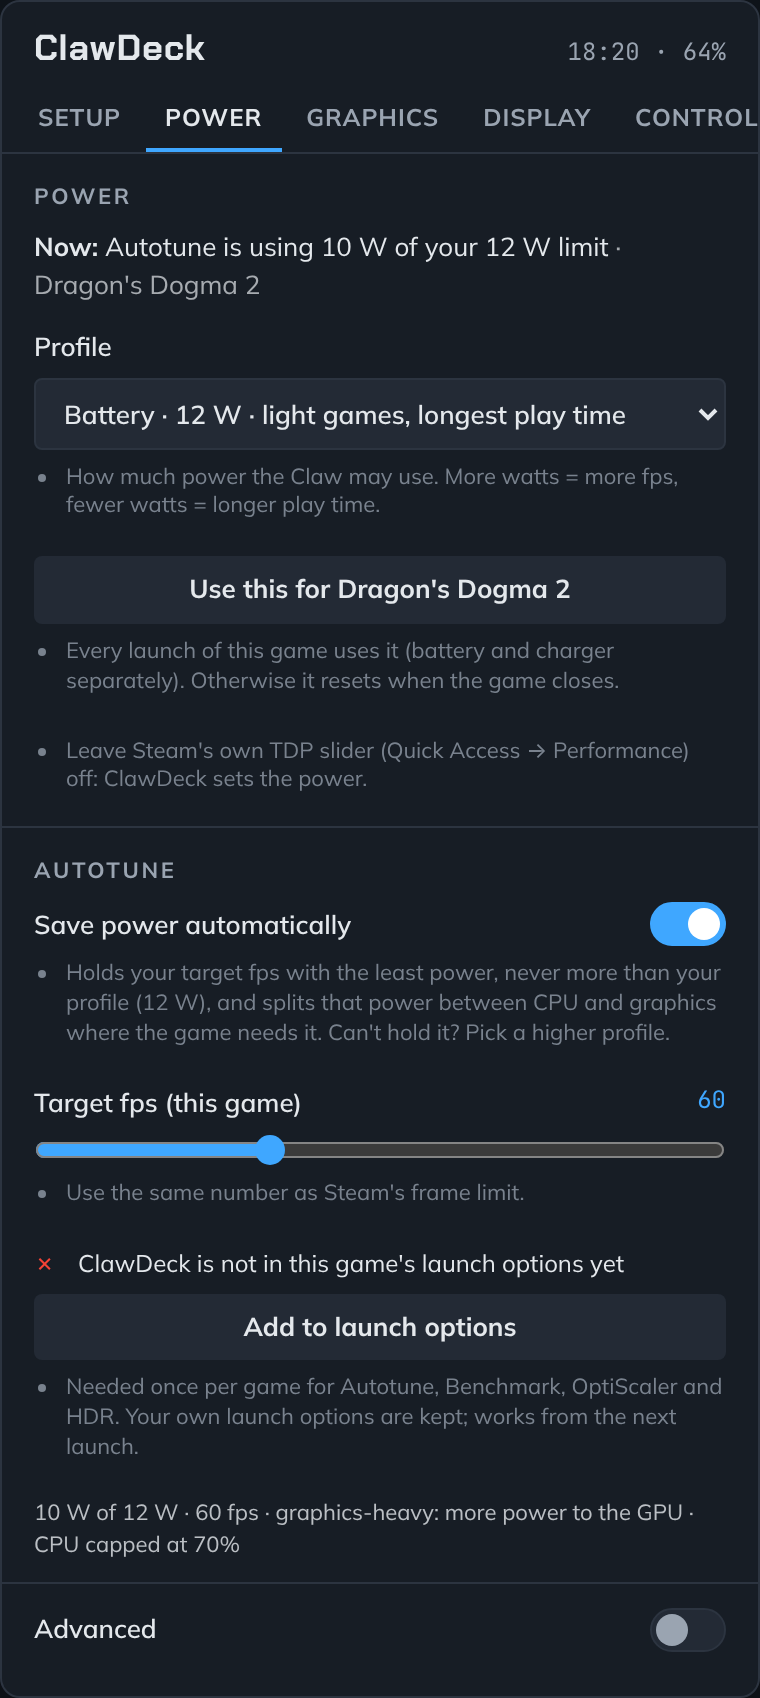
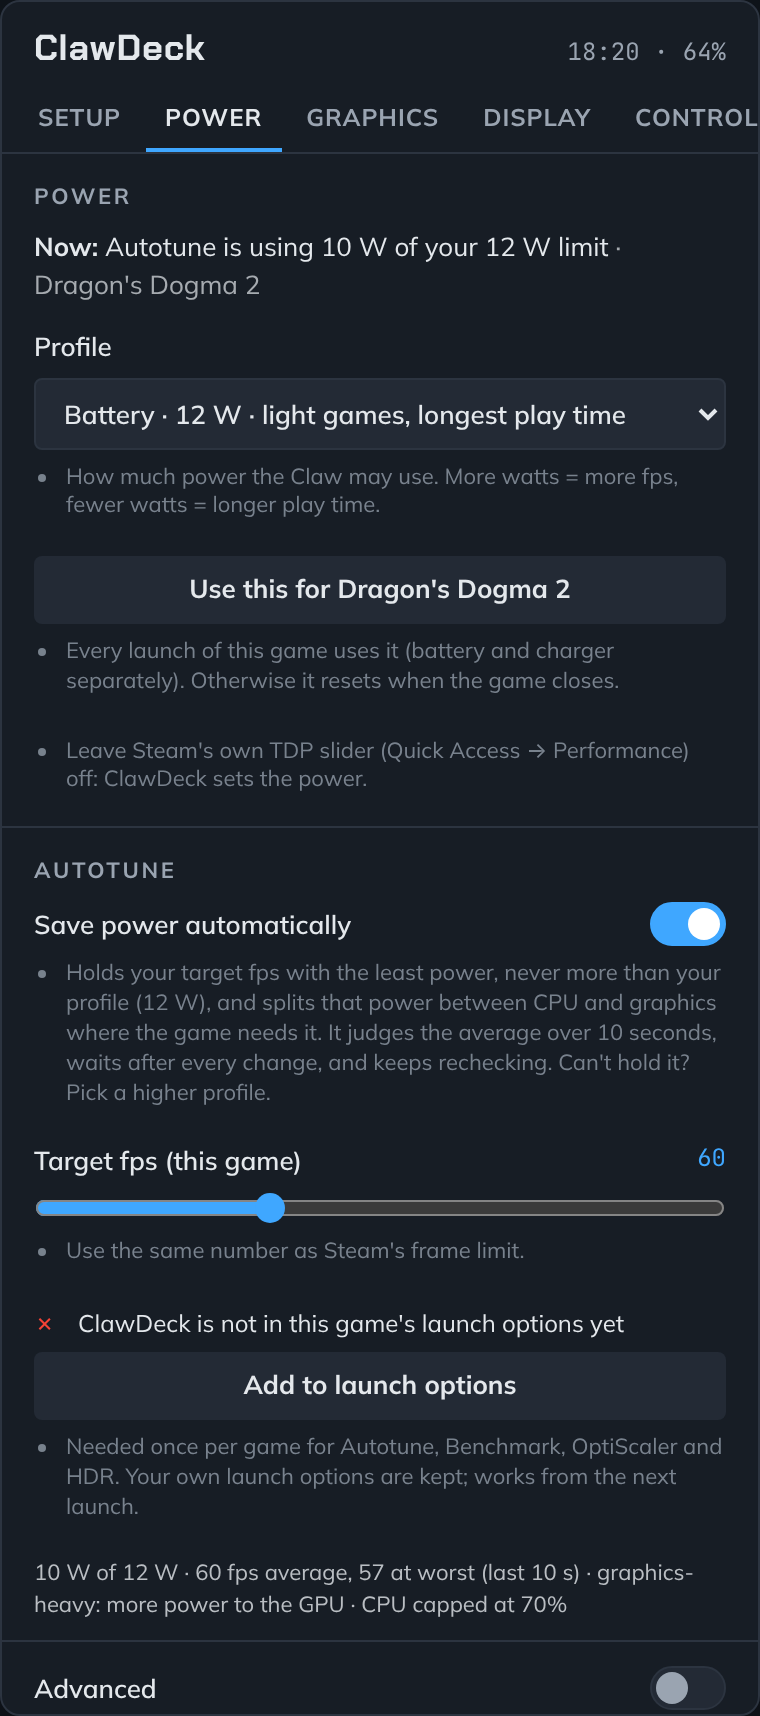
Autotune: decide on the average over time, wait after changes, keep rechecking
- Every decision looks at a 10 s window: the average fps and the worst second.
  On target = average >= 97 % and no second under 85 % of the target; missing =
  average under 95 % or a second under 75 % (stutter); in between, hold.
- The window restarts after every change, so each setting is judged only on its
  own numbers.
- A learned game is still watched: a miss raises power at once, and after 5 min
  steady on target it probes one step lower again.
- The sampler averages every MangoHud row written since the last read instead of
  keeping only the newest one.
- Power tab: "60 fps average, 57 at worst (last 10 s)"; README explains it.
- Tests for averaging vs one dip, stutter, the recheck, and the log reader.

Claude-Session: https://claude.ai/code/session_01XS45jD5WJVTkNPaWHwVS7K

diff --git a/src/tabs/Power.tsx b/src/tabs/Power.tsx
@@ -116,7 +116,7 @@ export const PowerTab: FC = () => {
       <PanelSection title="Autotune">
         <PanelSectionRow>
           <ToggleField label="Save power automatically" checked={autotune} onChange={async (v) => { setAutotune(v); await setSetting("autotune", v); refresh(); }} />
-          <Hint does={`Holds your target fps with the least power, never more than your profile (${limitW} W), and splits that power between CPU and graphics where the game needs it. Can't hold it? Pick a higher profile.`} />
+          <Hint does={`Holds your target fps with the least power, never more than your profile (${limitW} W), and splits that power between CPU and graphics where the game needs it. It judges the average over 10 seconds, waits after every change, and keeps rechecking. Can't hold it? Pick a higher profile.`} />
         </PanelSectionRow>
         {autotune && (
           <PanelSectionRow>
@@ -130,7 +130,7 @@ export const PowerTab: FC = () => {
           <PanelSectionRow>
             <div style={{ fontSize: 11, opacity: 0.8 }}>
               {at.paused ? "Paused: you changed CPU or GPU settings by hand" : `${at.learned?.tdp} W of ${limitW} W`}
-              {at.last?.fps != null && <> · {Math.round(at.last.fps)} fps</>}
+              {at.avg_fps != null ? <> · {Math.round(at.avg_fps)} fps average, {Math.round(at.low_fps ?? at.avg_fps)} at worst (last {at.window_s} s)</> : <> · measuring…</>}
               {at.learned?.bound && at.learned.bound !== "balanced" && <> · {at.learned.bound === "gpu" ? "graphics-heavy: more power to the GPU" : "CPU-heavy: more power to the CPU"}</>}
               {at.learned?.cpu_max_pct != null && at.learned.cpu_max_pct < 100 && <> · CPU capped at {at.learned.cpu_max_pct}%</>}
             </div>

diff --git a/src/api.ts b/src/api.ts
@@ -17,7 +17,8 @@ export type BatteryStatus = {
 export type Stack = { hhd: boolean; inputplumber: boolean; powerstation: boolean; controller: string | null; tdp_owner: string | null; conflict: boolean };
 export type Hardware = { product: string; known: boolean; kernel: string; cpu_model: string; gpu_driver: string | null; model: { name: string; soc: string; gpu: string; xmx: boolean }; stack: Stack; other_plugins?: { injector: string[]; power: string[] } };
 export type GameProfile = { base?: string; tdp?: number; cpu_max_pct?: number; gpu_min_mhz?: number; gpu_max_mhz?: number; target_fps?: number; autotune?: boolean; learned?: any };
-export type AutotuneStatus = { running: boolean; enabled: boolean; appid?: string; target_fps?: number; learned?: any; paused?: boolean; last?: any };
+export type AutotuneStatus = { running: boolean; enabled: boolean; appid?: string; target_fps?: number; learned?: any; paused?: boolean; last?: any;
+  avg_fps?: number | null; low_fps?: number | null; window_s?: number };
 
 export const getHardware = callable<[], Hardware>("get_hardware");
 export const getHealth = callable<[], Health[]>("get_health");

diff --git a/preview/backend.ts b/preview/backend.ts
@@ -143,7 +143,7 @@ export const backend = {
   get_autotune: () => (scenario.game && state.autotune
     ? { running: true, enabled: true, appid: "2054970", target_fps: state.targetFps, paused: false,
         learned: { tdp: 10, cpu_max_pct: 70, gpu_min_mhz: null, bound: "gpu", confidence: 2, samples: 412 },
-        last: { fps: 60.2, pkg_w: 10.4 } }
+        last: { fps: 60.2, pkg_w: 10.4 }, avg_fps: 60.1, low_fps: 57.0, window_s: 10 }
     : { running: false, enabled: state.autotune }),
   export_profiles: () => "{}",
   import_profiles: () => 1,

diff --git a/py_modules/clawdeck/autotune.py b/py_modules/clawdeck/autotune.py
@@ -6,16 +6,21 @@ Loop (1 Hz while a game runs, idle otherwise; one asyncio task, no threads, no b
      CPU utilisation (/proc/stat delta).
   2. classify: GPU-bound when the GPU is busy >= 90 % (PowerStation) or sits at its clock ceiling, while the CPU is < 60 %;
      CPU-bound when CPU > 85 % on the busiest cores and the GPU is < 70 %; else balanced.
-  3. control, one lever per step, with hysteresis. CPU and GPU share one power budget (the TDP), so balancing them is
-     half the job: power the side that isn't holding the game back doesn't need goes to the side that is.
-     - on target (frame time <= 1000/target_fps * 1.03) for `settle` samples: alternately trim the side that isn't
+  3. judge over time, never one second: every decision looks at the last `settle` seconds (10 by default): the
+     average fps and the worst second in that window. After every change the window starts empty, so the next
+     decision is based only on what the new setting did. "On target" = average >= 97 % of the target and no second
+     below 85 %; "missing" = average below 95 % or a second below 75 % (stutter); in between, hold.
+  4. control, one lever per decision. CPU and GPU share one power budget (the TDP), so balancing them is half the
+     job: power the side that isn't holding the game back doesn't need goes to the side that is.
+     - on target: alternately trim the side that isn't
        the bottleneck (GPU-bound: CPU ceiling -10 %, down to 60 %; CPU-bound: GPU floor -100 MHz, or off) and lower
        the TDP by 1 W, so the budget shrinks without starving the bound side;
-     - below target for 2 samples: first move budget to the bound side without more watts (GPU-bound: CPU ceiling
+     - missing: first move budget to the bound side without more watts (GPU-bound: CPU ceiling
        -10 % if the CPU is idle enough, else GPU floor +100 MHz; CPU-bound: CPU ceiling +10 %, else drop the GPU
        floor), then TDP +2 W; never above the ceiling (the profile or power limit the user picked).
-  4. after `stable` consecutive samples without a change, save the learned values with a confidence count and
-     stop adjusting (the game is "learned"; a later miss re-opens learning).
+  5. after `stable` decisions without a change, confidence goes up; at 3 the game is "learned" and autotune stops
+     lowering, but keeps checking: a miss raises power again at once, and every RECHECK_S of steady play on target
+     it tries one step lower again, in case the game (or a driver update) now needs less.
 
 Rules: dry-run prints every would-be write; a manual change by the user (TDP differs from what we set) pauses
 learning for the session; everything applied is reverted on game exit. The maths is a few comparisons per second:
@@ -38,6 +43,9 @@ log = logging.getLogger("clawdeck.autotune")
 CPU_MIN_PCT = 60        # autotune never trims the CPU below this: below it, frame pacing suffers in most games
 CPU_IDLE_PCT = 50       # "the CPU has power to spare": its utilisation is under this while the GPU is the bottleneck
 GPU_STEP_MHZ = 100
+RECHECK_S = 300         # a learned game is re-probed one step lower after this long on target without a change
+ON_AVG, ON_LOW = 0.97, 0.85     # on target: window average and worst second, as a share of the target
+MISS_AVG, MISS_LOW = 0.95, 0.75  # missing: average or worst second below these
 
 @dataclass
 class Sample:
@@ -81,18 +89,18 @@ class Sampler:
                 self._log_pos[f] = fh.tell()
         except OSError:
             return None, None
-        last = None
+        # every row written since the last read (MangoHud writes one per log_interval), averaged: nothing is skipped
+        fps_rows, ft_rows = [], []
         for row in csv.reader(rows.splitlines()):
             if len(row) >= 2 and row[0].replace(".", "", 1).isdigit():
-                last = row
-        if not last:
+                try:
+                    fps_rows.append(float(row[0]))
+                    ft_rows.append(float(row[1]))
+                except ValueError:
+                    continue
+        if not fps_rows:
             return None, None
-        try:
-            fps = float(last[0])
-            ft = float(last[1]) if len(last) > 1 else (1000.0 / fps if fps else None)
-            return ft, fps
-        except ValueError:
-            return None, None
+        return sum(ft_rows) / len(ft_rows), sum(fps_rows) / len(fps_rows)
 
     def package_power(self) -> float | None:
         if not self.p.rapl_energy:
@@ -173,13 +181,17 @@ class Session:
     floor_tdp: int
     ceiling_tdp: int
     learned: Learned
-    settle: int = 8          # good samples before lowering power one step
-    stable: int = 60         # unchanged samples before "learned"
+    settle: int = 10         # seconds of fps averaged before each decision (the window)
+    stable: int = 60         # decisions without a change before confidence goes up
     good_run: int = 0
     bad_run: int = 0
     unchanged: int = 0
     paused: bool = False
     trim_turn: bool = True   # on target: alternate between rebalancing CPU/GPU and lowering the TDP
+    window: list[float] = field(default_factory=list)   # per-second fps since the last change
+    last_change_t: float | None = None
+    avg_fps: float | None = None
+    low_fps: float | None = None
     history: list[Sample] = field(default_factory=list)
 
 
@@ -215,6 +227,7 @@ class Autotune:
         s.ceiling_tdp = max(s.floor_tdp, int(watts))
         s.learned.tdp = s.ceiling_tdp
         s.paused, s.good_run, s.bad_run, s.unchanged = False, 0, 0, 0
+        s.window.clear()
         log.info("autotune ceiling now %d W", s.ceiling_tdp)
 
     def pause(self, reason: str = "manual change") -> None:
@@ -264,12 +277,30 @@ class Autotune:
             return
         l = s.learned
         l.samples += 1
+        fps = smp.fps if smp.fps else 1000.0 / smp.frametime_ms if smp.frametime_ms else None
+        if not fps:
+            return
+        s.window.append(fps)
+        del s.window[:-s.settle]
+        if s.last_change_t is None:
+            s.last_change_t = smp.t
+        if len(s.window) < s.settle:
+            return                                   # not enough seconds since the last change to judge it
+        s.avg_fps = sum(s.window) / len(s.window)
+        s.low_fps = min(s.window)
         l.bound = classify(smp)
-        target_ms = 1000.0 / s.target_fps
+        t = s.target_fps
         changed = False
-        if smp.frametime_ms <= target_ms * 1.03:
-            s.good_run += 1; s.bad_run = 0
-            if s.good_run >= s.settle and l.confidence < 3:
+        if s.avg_fps < t * MISS_AVG or s.low_fps < t * MISS_LOW:
+            changed = self._feed_bound(l, smp)
+            if not changed and l.tdp < s.ceiling_tdp:
+                l.tdp = min(s.ceiling_tdp, l.tdp + 2)
+                self.power.set_tdp(l.tdp, self.plugged)
+                changed = True
+            l.confidence = max(0, l.confidence - 1)
+        elif s.avg_fps >= t * ON_AVG and s.low_fps >= t * ON_LOW:
+            recheck = l.confidence >= 3 and smp.t - s.last_change_t >= RECHECK_S
+            if l.confidence < 3 or recheck:
                 if s.trim_turn:
                     changed = self._trim_unbound(l, smp)
                 if not changed and l.tdp > s.floor_tdp:
@@ -277,19 +308,12 @@ class Autotune:
                     self.power.set_tdp(l.tdp, self.plugged)
                     changed = True
                 s.trim_turn = not s.trim_turn
-                s.good_run = 0
-        else:
-            s.bad_run += 1; s.good_run = 0
-            if s.bad_run >= 2:
-                changed = self._feed_bound(l, smp)
-                if not changed and l.tdp < s.ceiling_tdp:
-                    l.tdp = min(s.ceiling_tdp, l.tdp + 2)
-                    self.power.set_tdp(l.tdp, self.plugged)
-                    changed = True
-                s.bad_run = 0
-                l.confidence = max(0, l.confidence - 1)
+                if recheck:
+                    log.info("autotune recheck: trying one step lower after %d s on target", RECHECK_S)
         if changed:
             s.unchanged = 0
+            s.window.clear()                         # judge the new setting on its own numbers only
+            s.last_change_t = smp.t
         else:
             s.unchanged += 1
             if s.unchanged >= s.stable:
@@ -362,4 +386,6 @@ class Autotune:
         last = s.history[-1] if s.history else None
         return {"running": True, "enabled": self.enabled, "appid": s.appid, "target_fps": s.target_fps,
                 "learned": s.learned.__dict__, "paused": s.paused,
+                "avg_fps": None if s.avg_fps is None else round(s.avg_fps, 1),
+                "low_fps": None if s.low_fps is None else round(s.low_fps, 1), "window_s": s.settle,
                 "last": None if last is None else last.__dict__}

diff --git a/tests/test_backend.py b/tests/test_backend.py
@@ -133,36 +133,43 @@ def test_autotune_lowers_then_raises(fake_hw, monkeypatch):
     at.session = s
     good = autotune.Sample(t=0, frametime_ms=15.0, fps=66, gpu_mhz=1500, gpu_max_mhz=2400, cpu_pct=50, pkg_w=20)
     monkeypatch.setattr(at.sampler, "sample", lambda: good)
-    for _ in range(3):
-        at._step()
-    assert s.learned.tdp == 29 and applied[-1] == 29
+    at._step(); at._step()
+    assert s.learned.tdp == 30                     # two seconds are not enough to judge
+    at._step()
+    assert s.learned.tdp == 29 and applied[-1] == 29 and s.window == []   # the window restarts after a change
     bad = autotune.Sample(t=0, frametime_ms=25.0, fps=40, gpu_mhz=2390, gpu_max_mhz=2400, cpu_pct=40, pkg_w=20)
     monkeypatch.setattr(at.sampler, "sample", lambda: bad)
-    at._step(); at._step()
+    for _ in range(3):
+        at._step()
     # GPU-bound with an idle CPU: moves budget from the CPU to the GPU first, no extra watts
     assert s.learned.cpu_max_pct == 90 and s.learned.gpu_min_mhz is None and s.learned.tdp == 29
-    for _ in range(6):                       # three more misses: CPU 80, 70, 60 (its floor)
+    for _ in range(9):                             # three more decisions: CPU 80, 70, 60 (its floor)
         at._step()
     assert s.learned.cpu_max_pct == 60
-    at._step(); at._step()                   # CPU can't give more: then the GPU floor, still no extra watts
+    for _ in range(3):                             # CPU can't give more: then the GPU floor, still no extra watts
+        at._step()
     assert s.learned.gpu_min_mhz == 1400 and s.learned.tdp == 29
     at.session = None
 
 
-def _session(fake_hw, monkeypatch, **learned):
+def _session(fake_hw, monkeypatch, settle=1, **learned):
     pw = power.Power(fake_hw)
     at = autotune.Autotune(fake_hw, pw, log_dir="/nonexistent", csv_log=None)
     at.session = autotune.Session(appid="1", target_fps=60, floor_tdp=8, ceiling_tdp=17,
                                   learned=autotune.Learned(**{"tdp": 17, "cpu_max_pct": 100, "gpu_min_mhz": None, **learned}),
-                                  settle=1)
+                                  settle=settle)
     return at, at.session
+
+
+def _sample(fps, t=0.0, **kw):
+    base = dict(gpu_mhz=1500, gpu_max_mhz=2400, cpu_pct=40, pkg_w=12, gpu_busy=70)
+    base.update(kw)
+    return autotune.Sample(t=t, frametime_ms=1000.0 / fps, fps=fps, **base)
 
 
 def test_autotune_on_target_trims_the_side_that_isnt_the_bottleneck(fake_hw, monkeypatch):
     at, s = _session(fake_hw, monkeypatch)
-    gpu_bound = autotune.Sample(t=0, frametime_ms=16.0, fps=62, gpu_mhz=1500, gpu_max_mhz=2400, cpu_pct=35, pkg_w=16,
-                                gpu_busy=97)
-    monkeypatch.setattr(at.sampler, "sample", lambda: gpu_bound)
+    monkeypatch.setattr(at.sampler, "sample", lambda: _sample(62, cpu_pct=35, gpu_busy=97))
     at._step()                                # rebalance turn: CPU gives up budget
     assert s.learned.cpu_max_pct == 90 and s.learned.tdp == 17
     at._step()                                # TDP turn
@@ -173,16 +180,44 @@ def test_autotune_on_target_trims_the_side_that_isnt_the_bottleneck(fake_hw, mon
 
 def test_autotune_cpu_bound_gets_cpu_then_gives_back_gpu_floor(fake_hw, monkeypatch):
     at, s = _session(fake_hw, monkeypatch, cpu_max_pct=70, gpu_min_mhz=1800)
-    cpu_bound = autotune.Sample(t=0, frametime_ms=22.0, fps=45, gpu_mhz=1200, gpu_max_mhz=2400, cpu_pct=95, pkg_w=16,
-                                gpu_busy=55)
-    monkeypatch.setattr(at.sampler, "sample", lambda: cpu_bound)
-    at._step(); at._step()
+    monkeypatch.setattr(at.sampler, "sample", lambda: _sample(45, gpu_mhz=1200, cpu_pct=95, gpu_busy=55))
+    at._step()
     assert s.learned.cpu_max_pct == 80 and s.learned.tdp == 17     # more CPU, not more watts
-    for _ in range(4):
-        at._step()
-    assert s.learned.cpu_max_pct == 100
     at._step(); at._step()
+    assert s.learned.cpu_max_pct == 100
+    at._step()
     assert s.learned.gpu_min_mhz is None and s.learned.tdp == 17   # then the GPU floor goes, freeing budget
+    at.session = None
+
+
+def test_autotune_judges_the_average_not_one_second(fake_hw, monkeypatch):
+    at, s = _session(fake_hw, monkeypatch, settle=10)
+    seq = iter([_sample(f) for f in (61, 60, 62, 58, 61, 60, 63, 59, 60, 61)])   # one dip to 58 among 60s
+    monkeypatch.setattr(at.sampler, "sample", lambda: next(seq))
+    for _ in range(10):
+        at._step()
+    assert s.learned.tdp == 16                     # average 60.5, worst 58: on target, so power goes down
+    assert at.status()["avg_fps"] == 60.5 and at.status()["low_fps"] == 58
+    seq2 = iter([_sample(f) for f in (60, 60, 60, 60, 40, 60, 60, 60, 60, 60)])  # average fine, one big stutter
+    monkeypatch.setattr(at.sampler, "sample", lambda: next(seq2))
+    for _ in range(10):
+        at._step()
+    assert s.learned.tdp == 17                     # one 40 fps second is a stutter: missing, power back up
+    at.session = None
+
+
+def test_autotune_rechecks_a_learned_game(fake_hw, monkeypatch):
+    at, s = _session(fake_hw, monkeypatch, settle=1, confidence=3)
+    t = [0.0]
+    monkeypatch.setattr(at.sampler, "sample", lambda: _sample(61, t=t[0]))
+    at._step()
+    assert s.learned.tdp == 17                     # learned: no lowering right away
+    t[0] = autotune.RECHECK_S + 1
+    at._step()
+    assert s.learned.tdp == 16                     # after RECHECK_S on target it probes one step lower
+    monkeypatch.setattr(at.sampler, "sample", lambda: _sample(50, t=t[0] + 1))
+    at._step()
+    assert s.learned.tdp == 17                     # too low: back up at once
     at.session = None
 
 
@@ -240,3 +275,15 @@ def test_picked_power_is_autotunes_ceiling(fake_hw, monkeypatch):
     assert s.ceiling_tdp == 12 and s.learned.tdp == 12 and not s.paused
     at.set_ceiling(3)
     assert s.ceiling_tdp == 8               # never below the model's minimum
+
+
+def test_sampler_averages_every_new_mangohud_row(fake_hw, tmp_path):
+    log = tmp_path / "game_2026.csv"
+    log.write_text("os,cpu,gpu\nLinux,x,y\nfps,frametime,cpu_load\n60,16.6,30\n")
+    smp = autotune.Sampler(fake_hw, str(tmp_path))
+    assert smp.frametime() == (16.6, 60.0)
+    with open(log, "a") as f:
+        f.write("50,20.0,30\n70,14.2,30\n")          # two rows since the last read: both count
+    ft, fps = smp.frametime()
+    assert fps == 60.0 and abs(ft - 17.1) < 0.01
+    assert smp.frametime() == (None, None)            # nothing new

diff --git a/README.md b/README.md
@@ -48,7 +48,9 @@ it does:
   switches by itself when you plug in or unplug.
 - **Autotune** saves power automatically: pick a profile and a target fps, and it finds the lowest power that holds
   that fps, never more than the profile you picked. It also balances that power between the CPU and the graphics:
-  when a game is held back by one side, the other side gives up power it doesn't need.
+  when a game is held back by one side, the other side gives up power it doesn't need. It decides on the average
+  fps over 10 seconds (and the worst second, so stutter counts), waits for fresh numbers after every change, and
+  keeps rechecking every few minutes even after it has learned a game.
 - **XeSS on the Claw's XMX cores**, even in games that only ship DLSS or FSR: ClawDeck picks the best option per game
   and sets up the newest OptiScaler, OptiPatcher and REFramework for you. Lossless Scaling is the last resort for
   games with nothing else.
